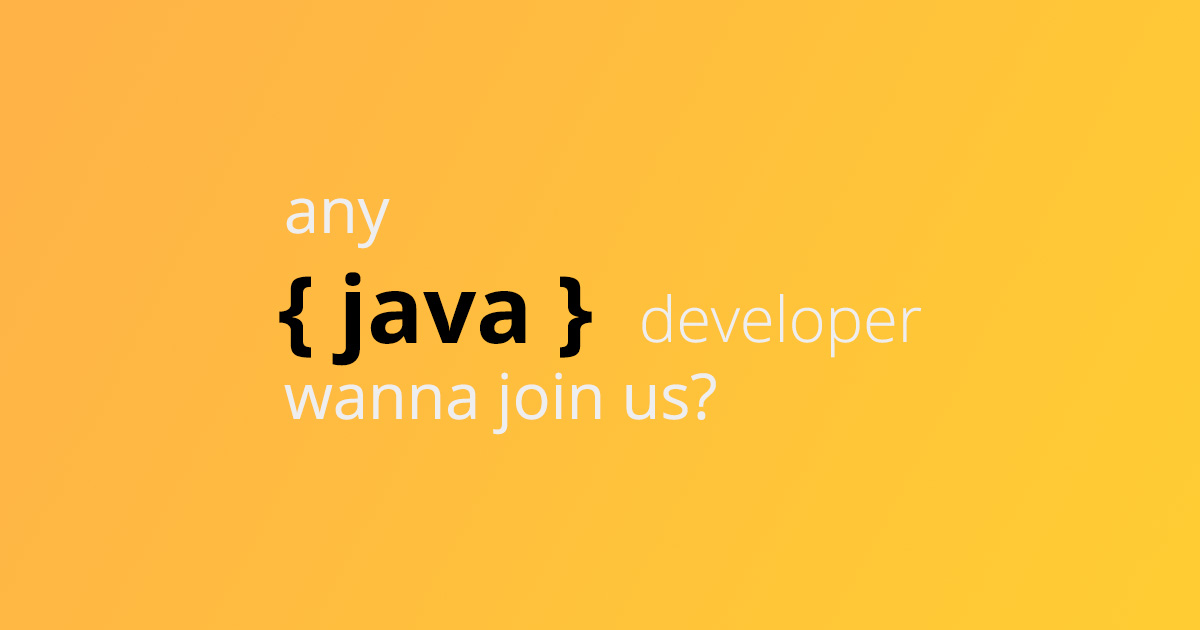
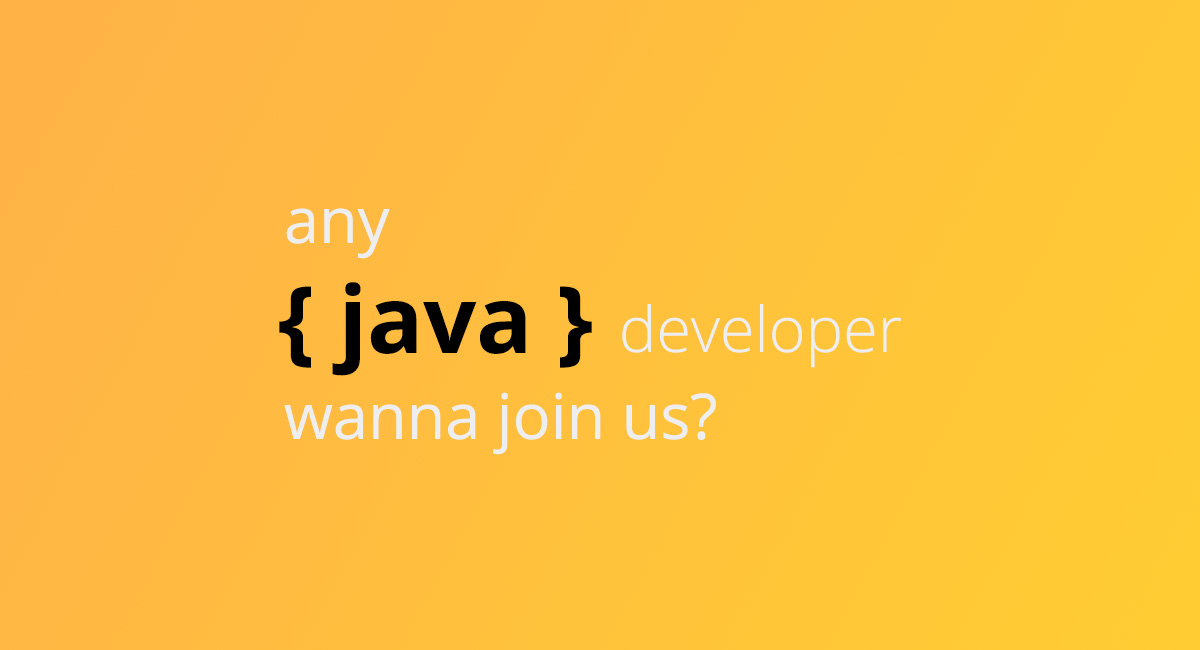
Updated cover images to 1200x650 for 1 sample

diff --git a/_includes/head.html b/_includes/head.html
@@ -5,6 +5,8 @@
 
   {% if page.cover_type %}
     <meta property="og:image" content="{{site.github.url}}{{ site.baseurl }}public/images/{{ page.cover_type }}_cover.jpg">
+    <meta property="og:image:width" content="1200">
+    <meta property="og:image:height" content="650">
   {% endif %}
 
   <!-- Enable responsiveness on mobile devices-->
